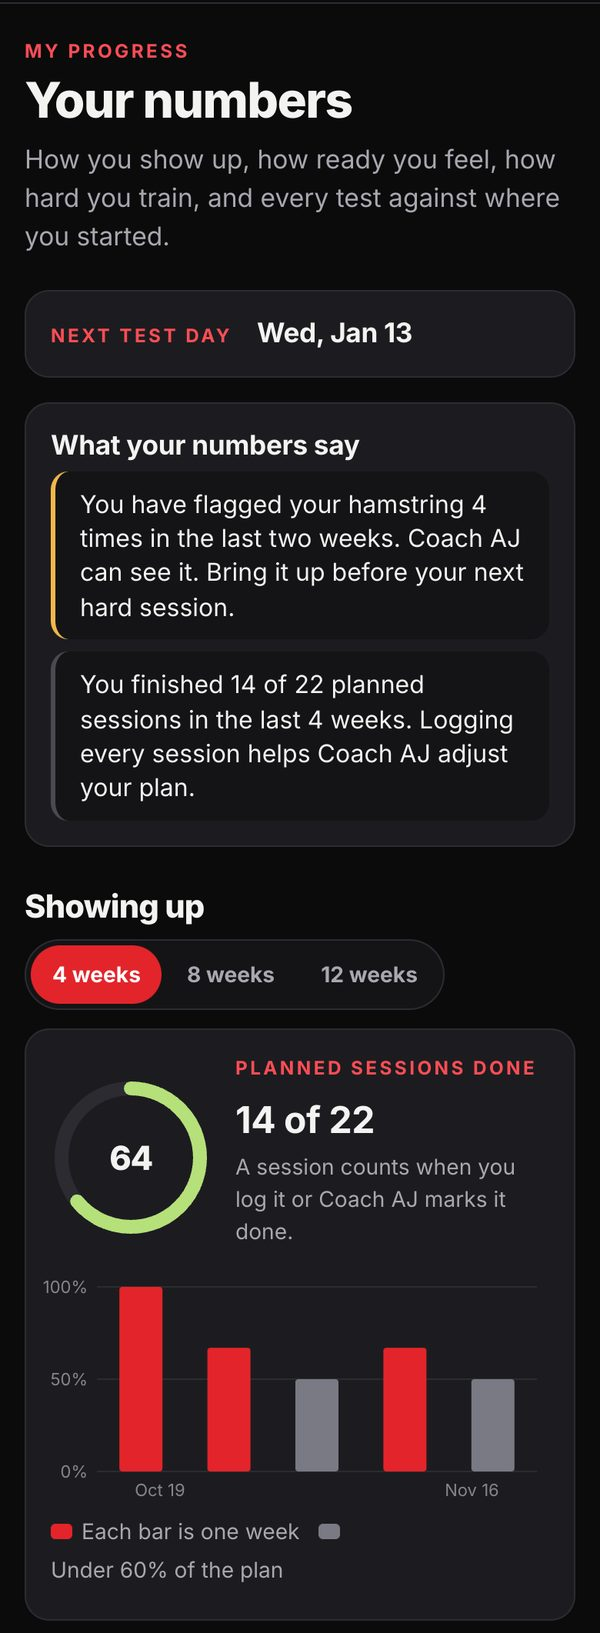
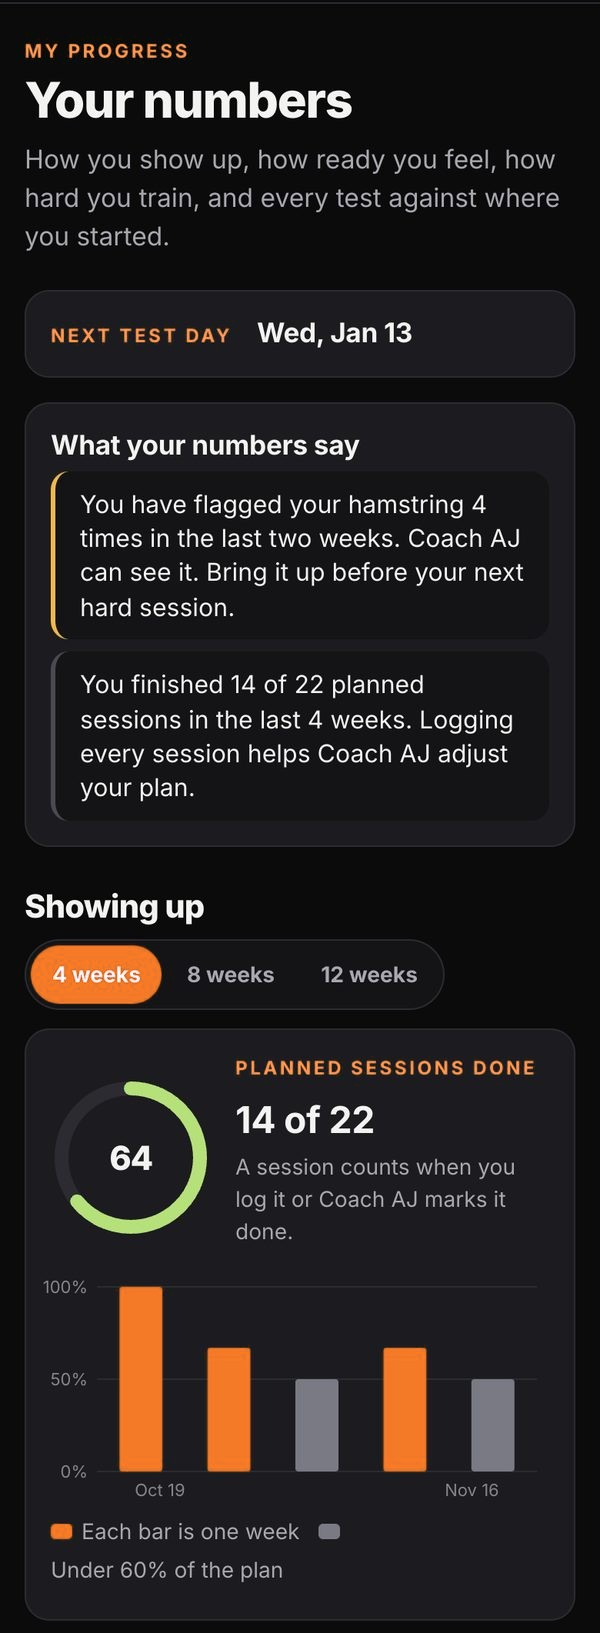
AYG Lab: finish the orange unification (TV board, Today hero, runner, charts, landing previews)
AJ's color amendment: one palette, Accelerate Your Game orange and the
AYG Lab logo, across every screen this PR touches.

- TV board pins the AYG Lab rooms (black-blue) and orange in every
  theme; the accent aliases are re-declared so Silverline devices get
  orange too. Exit button gets dark text on orange (7.3:1).
- Today hero: the drive leg, starting blocks and speed streaks are
  orange, matching the logo's runner.
- Workout runner, nav, tap highlight, warm-up step, session pill and
  video play button read theme tokens instead of hard-coded silver.
- Charts lead with orange then cyan; the old #cc0033 red is gone.
- Landing preview pictures: old red recolored to orange.
- Guard tests so silver cannot creep back. Suite: 2061 passed.

Claude-Session: https://claude.ai/code/session_015gMosg8sPj9ML1nDz6fNGx

diff --git a/business/coaching-app/public/styles.css b/business/coaching-app/public/styles.css
@@ -89,7 +89,7 @@
 * { box-sizing: border-box; }
 button { color: inherit; font-family: inherit; }
 html { -webkit-text-size-adjust: 100%; }
-* { -webkit-tap-highlight-color: rgba(201, 204, 212, .16); }
+* { -webkit-tap-highlight-color: var(--accent-tint); }
 @media (prefers-reduced-motion: no-preference) {
   html { scroll-behavior: smooth; }
 }
@@ -148,7 +148,7 @@ body {
   color: var(--ink); font-size: 14.5px; text-align: left; cursor: pointer;
 }
 @media (hover: hover) { .nav-item:hover { background: var(--surface-hover); } }
-.nav-item.active { background: rgba(201, 204, 212, .13); color: var(--red); font-weight: 700; }
+.nav-item.active { background: var(--accent-tint); color: var(--red); font-weight: 700; }
 .nav-overview { font-weight: 700; }
 .nav-menu .nav-overview { border-bottom: 1px solid var(--line); border-radius: 8px 8px 0 0; margin-bottom: 4px; }
 /* The Menu button + sheet exist only on narrow screens. */
@@ -418,7 +418,7 @@ details.card summary { cursor: pointer; }
 .fore-near { animation: foreNear .88s linear infinite; }
 .fore-far { animation: foreFar .88s linear infinite; }
 .runner-shadow { transform-box: fill-box; transform-origin: center; animation: shadowPulse .88s linear infinite, shadowFade .88s linear infinite; }
-.streak { stroke: var(--gray); stroke-width: 3; stroke-linecap: round; opacity: 0; animation: streakMove .88s linear infinite; }
+.streak { stroke: var(--red); stroke-width: 3; stroke-linecap: round; opacity: 0; animation: streakMove .88s linear infinite; }
 .streak.s2 { animation-delay: .29s; }
 .streak.s3 { animation-delay: .59s; }
 @keyframes streakMove {
@@ -426,6 +426,12 @@ details.card summary { cursor: pointer; }
   35% { opacity: .5; }
   100% { transform: translateX(-14px); opacity: 0; }
 }
+/* AYG Lab logo match: the far leg is at toe-off, the drive leg, so
+   it carries the brand orange like the drive leg in the logo; the
+   starting blocks are orange too. CSS beats the SVG attributes. */
+.runner .leg-far line { stroke: var(--red); }
+.hero .blk { fill: var(--red); }
+.hero .blk-top { fill: var(--red-on-dark); }
 /* Starting blocks + start line, parked at the left of the band */
 .blocks { position: absolute; left: calc(10% - 52px); bottom: 24px; width: 58px; opacity: .95; }
 @media (max-width: 560px) {
@@ -1242,7 +1248,7 @@ body.tv-mode .footer { display: none !important; }
 body.tv-mode main { max-width: none; margin: 0; padding: 0; }
 body.tv-mode #view-tv.active {
   position: fixed; inset: 0; z-index: 80;
-  background: #101216; color: #f2f3f5;
+  background: var(--bg); color: var(--ink);
 }
 .tv-shell { display: flex; flex-direction: column; height: 100%; }
 .tv-top {
@@ -1254,10 +1260,10 @@ body.tv-mode #view-tv.active {
 .tv-top-right { display: flex; align-items: center; gap: 18px; }
 .tv-clock { font-size: 34px; font-weight: 800; font-variant-numeric: tabular-nums; }
 .btn.tv-exit, .btn.tv-ctl {
-  background: #1d2026; border: 1px solid #3a3f47; color: #f2f3f5;
+  background: var(--surface-2); border: 1px solid var(--line-strong); color: var(--ink);
   font-size: 17px; padding: 10px 18px; min-height: 48px; width: auto;
 }
-.btn.tv-exit { background: var(--red); border-color: var(--red); font-weight: 700; }
+.btn.tv-exit { background: var(--red); border-color: var(--red); color: var(--accent-ink); font-weight: 700; }
 .tv-main { flex: 1; position: relative; min-height: 0; }
 .tv-loading { font-size: 26px; color: var(--gray); padding: 40px 44px; }
 .tv-panel { position: absolute; inset: 0; padding: 30px 44px; overflow-y: auto; display: none; }
@@ -1266,7 +1272,7 @@ body.tv-mode #view-tv.active {
 .tv-fit { --tv-scale: 1; }
 .tv-wod-kicker {
   font-size: calc(max(23px, 1.8vw) * var(--tv-scale, 1));
-  font-weight: 800; letter-spacing: .14em; text-transform: uppercase; color: #d7dae0;
+  font-weight: 800; letter-spacing: .14em; text-transform: uppercase; color: var(--red-on-dark);
 }
 .tv-date { font-size: calc(max(44px, 3.8vw) * var(--tv-scale, 1)); font-weight: 800; line-height: 1.1; color: #fff; }
 .tv-weekline { font-size: calc(max(26px, 2vw) * var(--tv-scale, 1)); color: var(--gray); font-weight: 700; margin: 10px 0 26px; }
@@ -1292,12 +1298,12 @@ body.tv-mode #view-tv.active {
   gap: calc(10px * var(--tv-scale, 1)) calc(28px * var(--tv-scale, 1)); margin: calc(16px * var(--tv-scale, 1)) 0 0;
 }
 .tv-spec dt { font-size: calc(max(15px, 15px * var(--tv-scale, 1))); font-weight: 800; letter-spacing: .09em; text-transform: uppercase; color: var(--gray); }
-.tv-spec dd { margin: 2px 0 0; font-size: calc(max(24px, 1.9vw) * var(--tv-scale, 1)); font-weight: 700; color: #f2f3f5; line-height: 1.3; }
+.tv-spec dd { margin: 2px 0 0; font-size: calc(max(24px, 1.9vw) * var(--tv-scale, 1)); font-weight: 700; color: var(--ink); line-height: 1.3; }
 .tv-cues { margin-top: calc(16px * var(--tv-scale, 1)); }
 .tv-cues-label { font-size: calc(max(15px, 15px * var(--tv-scale, 1))); font-weight: 800; letter-spacing: .09em; text-transform: uppercase; color: var(--gray); }
 .tv-cues p { margin: 4px 0 0; font-size: calc(max(24px, 1.9vw) * var(--tv-scale, 1)); line-height: 1.4; }
 .tv-session-source { font-size: calc(max(18px, 17px * var(--tv-scale, 1))); color: var(--gray); margin: calc(12px * var(--tv-scale, 1)) 0 0; }
-.tv-code { color: #d7dae0; font-weight: 800; }
+.tv-code { color: var(--red-on-dark); font-weight: 800; }
 .tv-empty { padding: 7vh 0; text-align: center; }
 .tv-empty-big { font-size: max(38px, 3.4vw); font-weight: 800; color: #fff; margin: 0; }
 .tv-empty-sub { font-size: max(23px, 1.8vw); color: var(--gray); max-width: 920px; margin: 16px auto 0; }
@@ -1390,7 +1396,7 @@ body.tv-mode .tv-bottom:hover, body.tv-mode:focus-within .tv-bottom { opacity: 1
 .vid-play {
   position: absolute; top: 50%; left: 50%; transform: translate(-50%, -50%);
   width: 52px; height: 52px; border-radius: 50%;
-  background: rgba(215, 218, 224, .92); color: #101216;
+  background: var(--red); color: var(--accent-ink);
   display: flex; align-items: center; justify-content: center;
   font-size: 19px; padding-left: 3px; pointer-events: none;
   box-shadow: 0 2px 10px rgba(0, 0, 0, .35);
@@ -1477,7 +1483,7 @@ body.tv-mode .tv-bottom:hover, body.tv-mode:focus-within .tv-bottom { opacity: 1
 .start-steps li { padding: 5px 0; }
 .start-steps .btn { width: auto; padding: 4px 12px; font-size: 13.5px; margin-left: 6px; }
 .warmup-panel h3 { margin: 0 0 6px; font-size: 16.5px; }
-:focus-visible { outline: 3px solid rgba(201, 204, 212, .55); outline-offset: 2px; }
+:focus-visible { outline: 3px solid var(--focus); outline-offset: 2px; }
 
 /* ---- Reports, meet results, and the test-day grid ---- */
 .bar-a { fill: var(--red); background: var(--red); }
@@ -1511,7 +1517,7 @@ body.tv-mode .tv-bottom:hover, body.tv-mode:focus-within .tv-bottom { opacity: 1
 .cw-ex-row .btn { min-height: 44px; }
 .runner-overlay {
   position: fixed; inset: 0; z-index: 90;
-  background: #101216; color: #f5f5f7;
+  background: var(--hud-bg); color: var(--ink);
   display: flex; flex-direction: column;
   padding: 18px 20px calc(18px + env(safe-area-inset-bottom));
 }
@@ -1523,7 +1529,7 @@ body.runner-mode { overflow: hidden; }
 .runner-workout { font-size: 17px; font-weight: 700; letter-spacing: .02em; color: var(--red-soft-on-dark); }
 .btn.runner-exit {
   width: auto; min-height: 48px; padding: 8px 22px;
-  background: transparent; color: #f5f5f7; border: 2px solid var(--red); font-weight: 700;
+  background: transparent; color: var(--ink); border: 2px solid var(--red); font-weight: 700;
 }
 .runner-main {
   flex: 1; display: flex; flex-direction: column; align-items: center; justify-content: center;
@@ -1563,7 +1569,7 @@ body.runner-mode { overflow: hidden; }
   width: auto; flex: 1 1 150px; min-height: 64px; font-size: 20px; font-weight: 700; border-radius: var(--r-card);
 }
 .btn.runner-btn.primary { background: var(--red); border-color: var(--red); color: var(--accent-ink); flex-grow: 2; }
-.btn.runner-btn.secondary { background: #1d2026; color: #f5f5f7; border: 2px solid #3a3e46; }
+.btn.runner-btn.secondary { background: var(--surface-2); color: var(--ink); border: 2px solid var(--line-strong); }
 .btn.runner-btn[disabled] { opacity: .35; }
 .runner-done { display: flex; flex-direction: column; align-items: center; gap: 8px; }
 .runner-done-title { font-size: clamp(40px, 9vw, 76px); margin: 0; font-weight: 800; }
@@ -1942,7 +1948,7 @@ body.logged-out .primary-nav { display: none !important; }
 .wr-steps { list-style: none; margin: 10px 0; padding: 0; counter-reset: wrstep; }
 .wr-step { padding: 7px 10px; border-left: 3px solid transparent; border-radius: 0 var(--radius-sm) var(--radius-sm) 0; font-size: 15.5px; }
 .wr-step.done { color: var(--muted); }
-.wr-step.current { border-left-color: var(--scarlet); background: rgba(201, 204, 212, .1); font-size: 16.5px; }
+.wr-step.current { border-left-color: var(--scarlet); background: var(--accent-tint); font-size: 16.5px; }
 
 /* Lab Report (member-facing): PR cards a member shows a parent —
    the best mark big, the baseline beneath it, a plain-language
@@ -2455,14 +2461,19 @@ input.field-invalid, select.field-invalid, textarea.field-invalid { border-color
 [data-theme="studio"] .landing-talk-line { color: var(--ink); }
 
 /* ---- The TV board is a fixed display, not a device preference:
-   it keeps the Silverline treatment in every theme by pinning the
-   tokens its rules read back to the baseline values. ---- */
+   it keeps the AYG Lab brand look (black-blue rooms, Accelerate
+   Your Game orange) in every theme by pinning the tokens its rules
+   read to the AYG Lab theme values. The accent aliases are declared
+   again here because a custom property resolves its var() where it
+   is declared. ---- */
 body.tv-mode {
-  --red: #ff7a1a; --red-dark: #ff8f3d; --gray: #868d96;
-  --ink: #eef6fb; --muted: #93a5b5; --line: #1b2836;
-  --bg: #0d0d0f; --card: #17181c;
-  --accent-ink: #101216;
-  --surface-2: #1e1f24; --surface-hover: #23242a;
+  --red: #ff7a1a; --red-dark: #ff8f3d; --red-on-dark: #ffa25e; --red-soft-on-dark: #ffc79b;
+  --gray: #93a5b5; --ink: #eef6fb; --muted: #93a5b5; --line: #1b2836; --line-strong: #46617c;
+  --bg: #04070c; --card: #0a0f16; --hud-bg: #030509; --hud-text-dim: #c9d8e4;
+  --accent-ink: #1a0d02;
+  --surface-2: #0e1620; --surface-hover: #132130;
+  --accent: var(--red); --accent-strong: var(--red-dark);
+  --accent-tint: rgba(255, 122, 26, .13); --focus: #6fe3f7;
   --radius: 14px; --radius-sm: 10px;
 }
 
@@ -2609,8 +2620,8 @@ body.tv-mode .rp-backbar { display: none; }
 .rp-hero-main { margin: 0 0 16px; font-size: clamp(17px, 2.6vw, 22px); font-weight: 600; color: #e6e8ec; max-width: 30ch; }
 .rp-session { display: flex; align-items: center; flex-wrap: wrap; gap: 10px; margin: 0 0 8px; }
 .rp-session-code {
-  padding: 4px 10px; border-radius: var(--r-pill); background: rgba(201, 204, 212, .16);
-  border: 1px solid rgba(201, 204, 212, .35); font-size: var(--fs-sm); font-weight: 700; letter-spacing: .06em; color: #fff;
+  padding: 4px 10px; border-radius: var(--r-pill); background: var(--accent-tint);
+  border: 1px solid var(--red); font-size: var(--fs-sm); font-weight: 700; letter-spacing: .06em; color: #fff;
 }
 .rp-session-name { font-size: var(--fs-md); font-weight: 700; color: #fff; }
 .rp-done {
@@ -2634,7 +2645,7 @@ body.tv-mode .rp-backbar { display: none; }
 .rp-start-quiet:hover { background: rgba(255, 255, 255, .18); }
 .rp-weekstrip { display: flex; gap: 6px; margin-top: 22px; }
 .rp-day { display: flex; flex: 1 1 0; flex-direction: column; align-items: center; gap: 5px; min-width: 0; }
-.rp-day-dow { font-size: 11px; font-weight: 700; letter-spacing: .08em; text-transform: uppercase; color: #aeb3bc; }
+.rp-day-dow { font-size: 11px; font-weight: 700; letter-spacing: .08em; text-transform: uppercase; color: var(--muted); }
 .rp-day-dot {
   display: flex; align-items: center; justify-content: center; width: 28px; height: 28px; border-radius: 50%;
   border: 1.5px solid rgba(255, 255, 255, .28); background: rgba(0, 0, 0, .35); font-size: 14px; font-weight: 800; color: #101216;
@@ -2922,7 +2933,7 @@ body.logged-out #view-landing .landing-faq + .landing-card + .landing-card {
 }
 body.logged-out #view-landing .landing-final {
   padding: clamp(28px, 5vw, 56px); border-color: #50535b;
-  background: radial-gradient(ellipse at 92% 10%, rgba(201, 204, 212, .1), transparent 42%), #111215;
+  background: radial-gradient(ellipse at 92% 10%, var(--accent-tint), transparent 42%), #111215;
 }
 body.logged-out #view-landing .landing-final h2 { font-size: clamp(30px, 5vw, 44px); }
 body.logged-out #view-landing .landing-footer-strip {
@@ -3107,7 +3118,7 @@ body.rp-public { overflow-x: clip; }
 .lp-eotd-body { padding: 36px; }
 #view-landing.lp .lp-eotd-body h3 { font-size: 1.9rem; font-weight: 800; margin-bottom: .6rem; }
 .lp-chips { display: flex; flex-wrap: wrap; gap: 8px; margin: 0 0 1.4rem; padding: 0; list-style: none; }
-.lp-chips li { font-size: .82rem; background: var(--lp-accent-soft); color: #ffb8bb; border: 1px solid rgba(255, 122, 26, .45); padding: 4px 10px; border-radius: var(--r-pill); }
+.lp-chips li { font-size: .82rem; background: var(--lp-accent-soft); color: var(--lp-accent-text); border: 1px solid rgba(255, 122, 26, .45); padding: 4px 10px; border-radius: var(--r-pill); }
 .lp-eotd-cols { display: grid; grid-template-columns: 1fr 1fr; gap: 20px 28px; margin-bottom: 1.4rem; }
 #view-landing.lp .lp-eotd-cols h4 { margin: 0 0 .35rem; font-size: .78rem; letter-spacing: .12em; text-transform: uppercase; color: var(--lp-dim); }
 .lp-eotd-cols p, .lp-eotd-cols ol { margin: 0; font-size: .95rem; color: #d7d7d9; }

diff --git a/business/coaching-app/public/app.js b/business/coaching-app/public/app.js
@@ -3082,7 +3082,7 @@ function checkinReportHtml(ci) {
     : '';
   const pts = ci.dailyTrend.filter(d => d.avgSleep != null).map(d => ({ week: d.date, value: d.avgSleep }));
   const trend = pts.length
-    ? lineChart([{ points: pts, color: '#cc0033' }], { name: 'Avg sleep', unit: 'hrs', better: 'higher' }, true)
+    ? lineChart([{ points: pts, color: CHART_COLORS[0] }], { name: 'Avg sleep', unit: 'hrs', better: 'higher' }, true)
     : '';
   return `<h3>Daily check-ins</h3>
     <p class="muted">${ci.totalCheckins} check-in${ci.totalCheckins === 1 ? '' : 's'} logged so far.</p>
@@ -3942,7 +3942,9 @@ function drawWuEditor() {
 }
 
 /* ---------------- SVG line charts (hand-rolled) ---------------- */
-const CHART_COLORS = ['#c9ccd4', '#e8eaed', '#8a939f', '#c9a227', '#7d99ae', '#a58fc0'];
+/* First series in Accelerate Your Game orange, second in the AYG Lab
+   theme's cyan highlight; the rest stay distinct for multi-athlete overlays. */
+const CHART_COLORS = ['#ff7a1a', '#6fe3f7', '#8a939f', '#c9a227', '#7d99ae', '#a58fc0'];
 function seriesFromEntries(entriesForProfile, metricKey) {
   const byWeek = (entriesForProfile || {})[metricKey] || {};
   return Object.keys(byWeek).sort().map(week => ({ week, value: byWeek[week] }));
@@ -4877,7 +4879,7 @@ async function renderTop() {
       if (!pts.length) return '';
       const stats = seriesStats(pts, m);
       return `<h4>${esc(m.name)} <span class="muted">best ${stats.best !== null ? fmtNum(stats.best) + ' ' + esc(m.unit) : '-'}</span> ${deltaHtml(m, stats)}</h4>
-        ${lineChart([{ label: pr.name, color: '#c9ccd4', points: pts }], m, true)}`;
+        ${lineChart([{ label: pr.name, color: CHART_COLORS[0], points: pts }], m, true)}`;
     }).join('');
     return `<h3>${esc(pr.name)} ${eventBadges(pr)}</h3>${charts || '<p class="muted">No weekly numbers yet.</p>'}`;
   };

diff --git a/business/coaching-app/tests/run-tests.js b/business/coaching-app/tests/run-tests.js
@@ -2698,6 +2698,27 @@ async function main() {
   check('TV board pins the AYG Lab orange tokens regardless of device theme',
     /body\.tv-mode \{[^}]*--red: #ff7a1a/.test(stylesCss.text) &&
     /body\.tv-mode \{[^}]*--radius: 14px/.test(stylesCss.text));
+  check('TV board pins the AYG Lab rooms and re-declares the accent aliases',
+    /body\.tv-mode \{[^}]*--bg: #04070c/.test(stylesCss.text) &&
+    /body\.tv-mode \{[^}]*--accent: var\(--red\)/.test(stylesCss.text) &&
+    /body\.tv-mode \{[^}]*--accent-ink: #1a0d02/.test(stylesCss.text) &&
+    /\.btn\.tv-exit \{[^}]*color: var\(--accent-ink\)/.test(stylesCss.text));
+  {
+    /* The silver accent (201, 204, 212) may live only in the Silverline
+       token definitions, never hard-coded into a screen's own rules. */
+    const noThemeBlocks = stylesCss.text
+      .replace(/:root \{[^}]*\}/, '')
+      .replace(/\[data-theme="silverline"\] \{[^}]*\}/, '');
+    check('no hard-coded silver accent outside the Silverline tokens',
+      !/rgba\(201, ?204, ?212/.test(noThemeBlocks) && !noThemeBlocks.includes('#d7dae0'));
+  }
+  check('Today hero runner: drive leg and starting blocks carry the brand orange',
+    stylesCss.text.includes('.runner .leg-far line { stroke: var(--red); }') &&
+    stylesCss.text.includes('.hero .blk { fill: var(--red); }') &&
+    /\.streak \{ stroke: var\(--red\)/.test(stylesCss.text));
+  check('charts lead with Accelerate Your Game orange, no old red or silver series',
+    appJs.text.includes("const CHART_COLORS = ['#ff7a1a', '#6fe3f7'") &&
+    !appJs.text.includes("color: '#cc0033'") && !appJs.text.includes("color: '#c9ccd4'"));
   check('app JS owns the theme list with all three looks',
     appJs.text.includes('const THEMES = [') &&
     appJs.text.includes("id: 'silverline', name: 'Silverline'") &&

diff --git a/business/coaching-app/public/index.html b/business/coaching-app/public/index.html
@@ -564,10 +564,10 @@
         <svg viewBox="0 0 58 34" focusable="false" aria-hidden="true">
           <rect x="40" y="4" width="3" height="26" fill="#ffffff" opacity=".8"/>
           <rect x="2" y="29" width="34" height="3" rx="1.5" fill="#555b64"/>
-          <polygon points="9,29 17,29 15,17 8,19" fill="#c9ccd4"/>
-          <polygon points="8,19 15,17 16,20 9,22" fill="#d7dade"/>
-          <polygon points="20,29 28,29 25,16 18,18" fill="#c9ccd4"/>
-          <polygon points="18,18 25,16 26,19 19,21" fill="#d7dade"/>
+          <polygon class="blk" points="9,29 17,29 15,17 8,19" fill="#ff7a1a"/>
+          <polygon class="blk-top" points="8,19 15,17 16,20 9,22" fill="#ffa25e"/>
+          <polygon class="blk" points="20,29 28,29 25,16 18,18" fill="#ff7a1a"/>
+          <polygon class="blk-top" points="18,18 25,16 26,19 19,21" fill="#ffa25e"/>
         </svg>
       </div>
       <svg class="runner" viewBox="0 0 120 96" focusable="false" aria-hidden="true">
